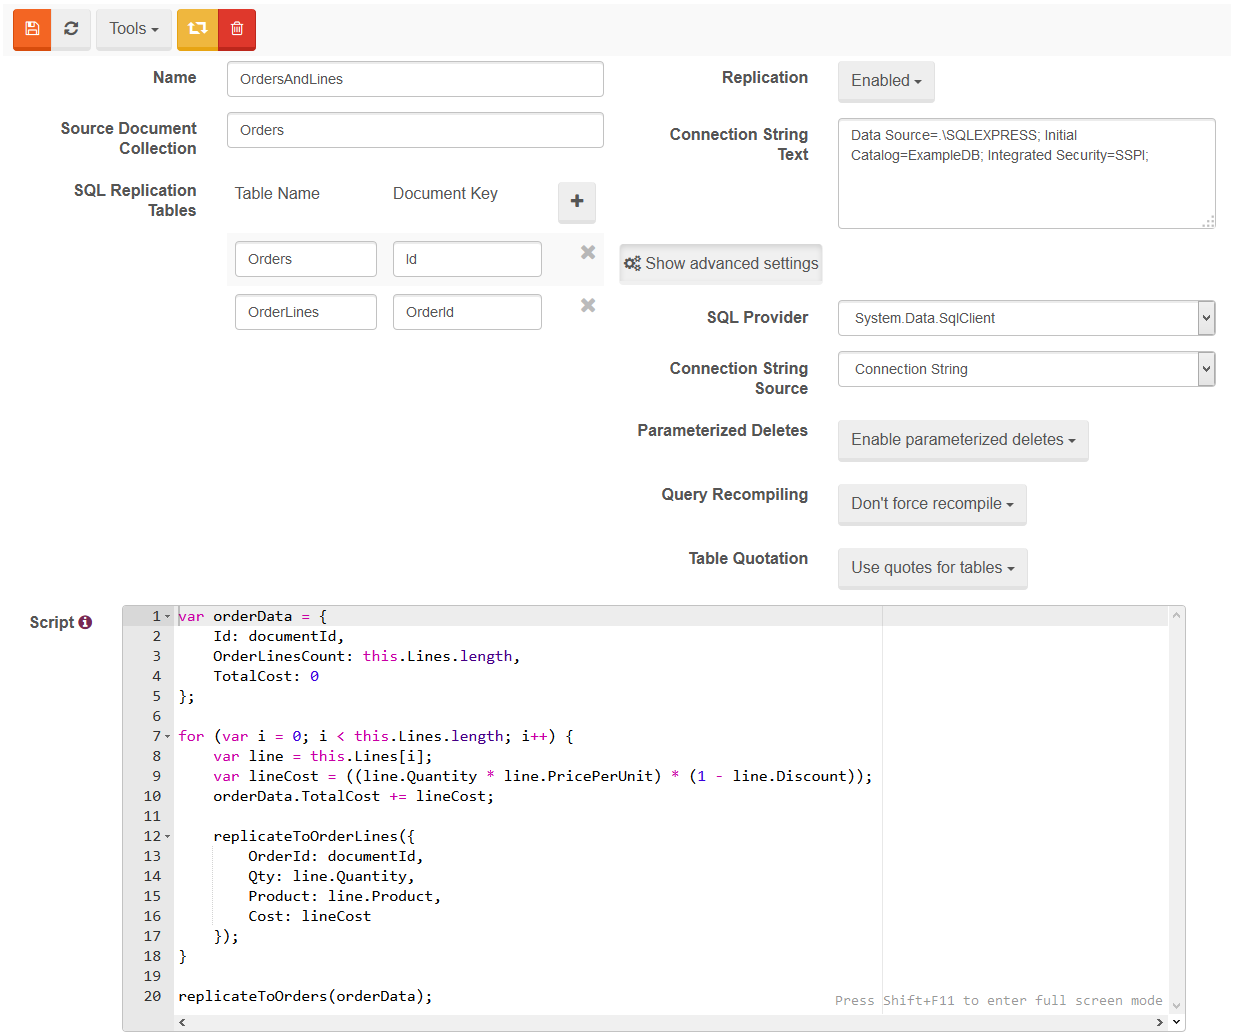
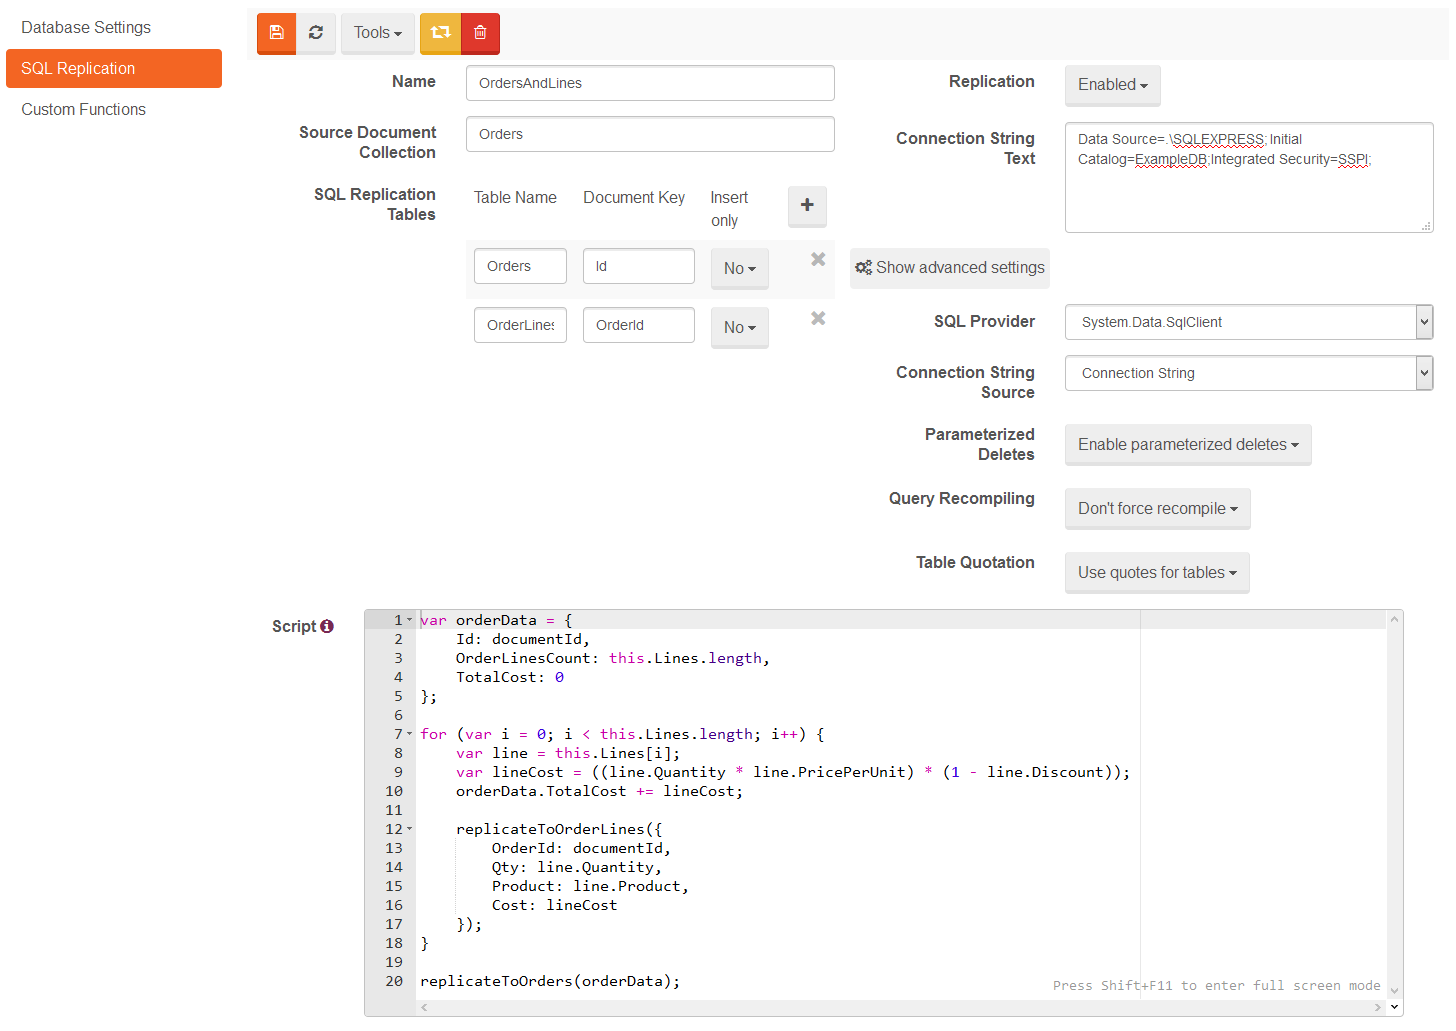
RDoc-366 Document SQL Replication changes

diff --git a/Documentation/3.0/Samples/csharp/Raven.Documentation.Samples/Server/Bundles/SqlReplication.cs b/Documentation/3.0/Samples/csharp/Raven.Documentation.Samples/Server/Bundles/SqlReplication.cs
@@ -18,8 +18,8 @@ namespace Raven.Documentation.Samples.Server.Bundles
 
 			public bool ParameterizeDeletesDisabled { get; set; }
 			public bool ForceSqlServerQueryRecompile { get; set; }
-			public bool PerformTableQuatation { get; set; }
 
+			public bool QuoteTables { get; set; }
 			public string RavenEntityName { get; set; }
 			public string Script { get; set; }
 			public string FactoryName { get; set; }
@@ -38,6 +38,8 @@ namespace Raven.Documentation.Samples.Server.Bundles
 			public string TableName { get; set; }
 
 			public string DocumentKeyColumn { get; set; }
+
+			public bool InsertOnlyMode { get; set; }
 		}
 		#endregion
 
